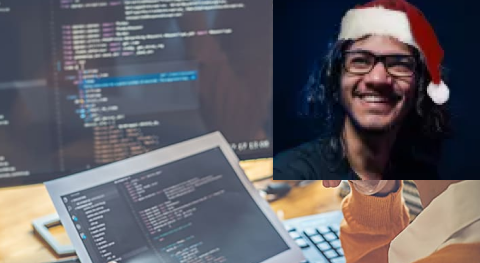
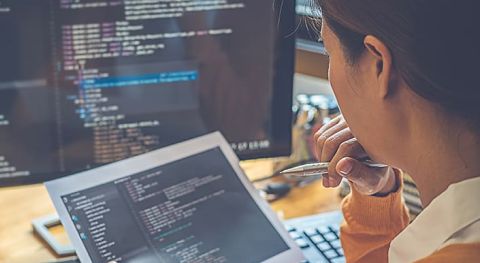
feat: improve team ui

Changed region(s): [[0.5625, 0.0, 1.0, 0.6996]]

diff --git a/frontend/pages/our-team.js b/frontend/pages/our-team.js
@@ -18,13 +18,31 @@ export default function OurTeam() {
         <h1 className="text-6xl lg:text-8xl font-bold z-10 mt-4">OUR TEAM</h1>
       </div>
 
-      <div className="grid grid-cols-2  lg:grid-cols-4 mt-4">
+      <div className="grid grid-cols-1 lg:grid-cols-4 mt-4">
         {constants.team.map((member, index) => {
           const MemberImage = () => (
-            <img
-              className="w-full"
-              src={`/images/${member.name.toLowerCase()}.png`}
-              alt={member.name} />
+            <a
+              href={`https://osu.ppy.sh/users/${member.osuId}`}
+              className="col-span-2 relative h-64 lg:h-[211px] transition hover:brightness-75 lg:col-span-1">
+              <img
+                className="w-full h-full object-cover"
+                src={`/images/${member.name.toLowerCase()}.png`}
+                alt={member.name} />
+              <img
+                className="absolute h-28 w-28 lg:w-32 lg:h-32"
+                style={{ ... member.avatarStyles }}
+                src={`http://s.ppy.sh/a/${member.osuId}`}
+                alt={`${member.name} osu avatar`} />
+
+                <div className="bg-black-lightest lg:hidden absolute bottom-0 left-0 right-0 p-4 rounded-t-14">
+                  <h2 className="font-bold text-xl lg:text-5xl ">
+                    {member.name}
+                  </h2>
+                  <p className="font-light lg:text-2xl">
+                    {member.role}
+                  </p>
+                </div>
+            </a>
           )
 
           return (
@@ -35,11 +53,13 @@ export default function OurTeam() {
               {index >= 4 && (
                 <MemberImage />
               )}
-              <div className={classNames(
-                "flex flex-col justify-center px-8",
+              <a
+                href={`https://osu.ppy.sh/users/${member.osuId}`}
+                className={classNames(
+                "hidden flex-col justify-center px-8 transition lg:flex",
                 member.name === 'StanR'
-                  ? 'bg-pink text-pink-darker'
-                  : 'bg-black-lightest text-white',
+                  ? 'bg-pink text-pink-darker hover:bg-black-lightest hover:text-white'
+                  : 'bg-black-lightest text-white hover:bg-pink hover:text-pink-darker',
                 index >= 2  && index <= 3 ? 'text-right' : ''
                 )}>
                 <h2 className="font-bold text-xl lg:text-5xl ">
@@ -48,7 +68,7 @@ export default function OurTeam() {
                 <p className="font-light lg:text-2xl">
                   {member.role}
                 </p>
-              </div>
+              </a>
               {index >= 2 && index <= 3 && (
                 <MemberImage />
               )}
@@ -56,7 +76,7 @@ export default function OurTeam() {
           )
         })}
 
-        <a href="https://discord.gg/rx9RKQsy9H" className="flex justify-center items-center bg-blue-discord col-span-2 text-white focus:brightness-90 hover:brightness-90 transition py-8 lg:py-0">
+        <a href="https://discord.gg/rx9RKQsy9H" className="flex justify-center items-center bg-blue-discord col-span-2 text-white focus:brightness-90 hover:brightness-75 transition py-8 lg:py-0">
           <SVG className="w-32" src="/svg/discord.svg" alt="Join our Discord" />
         </a>
       </div>

diff --git a/frontend/constants.js b/frontend/constants.js
@@ -21,26 +21,46 @@ module.exports = {
       name: 'StanR',
       role: 'CEO & back-end developer',
       osuId: '7217455',
+      avatarStyles: {
+        left: '6.5rem',
+        top: '0.9rem',
+      }
     },
     {
       name: 'Arhella',
       role: 'UX/UI Designer',
       osuId: '4411044',
+      avatarStyles: {
+        right: '0',
+        top: '0',
+      }
     },
     {
       name: 'JustRoxy',
       role: 'back-end developer',
       osuId: '9083516',
+      avatarStyles: {
+        right: '5rem',
+        top: '0.8rem',
+      }
     },
     {
       name: 'kkk',
       role: 'quality assurance',
       osuId: '4735736',
+      avatarStyles: {
+        left: '5.5rem',
+        top: '0rem',
+      }
     },
     {
       name: 'Keziah',
       role: 'front-end developer',
       osuId: '5914915',
+      avatarStyles: {
+        right: '0',
+        top: '2rem'
+      }
     }
   ]
 }
